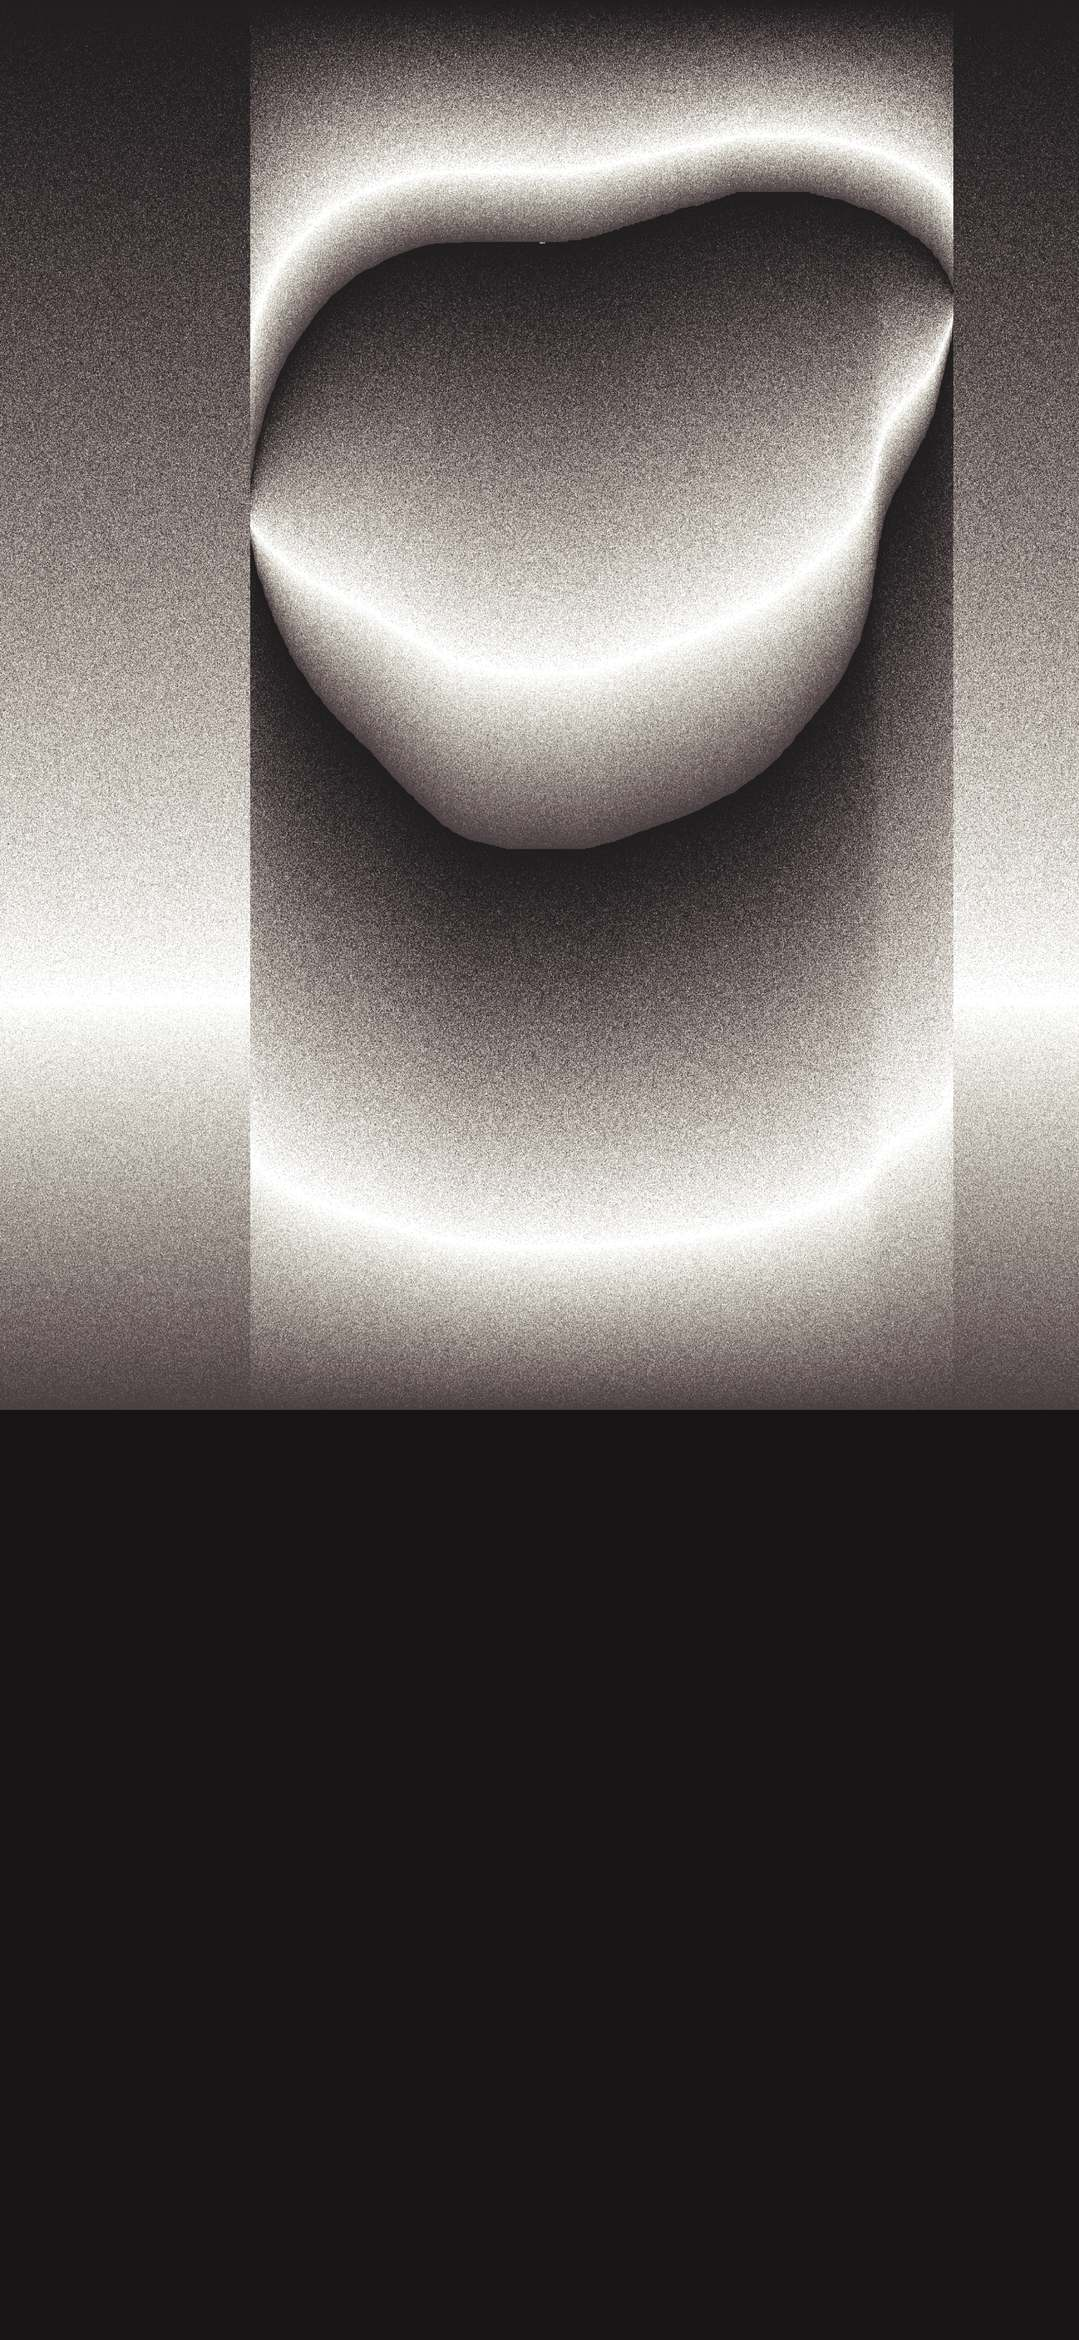
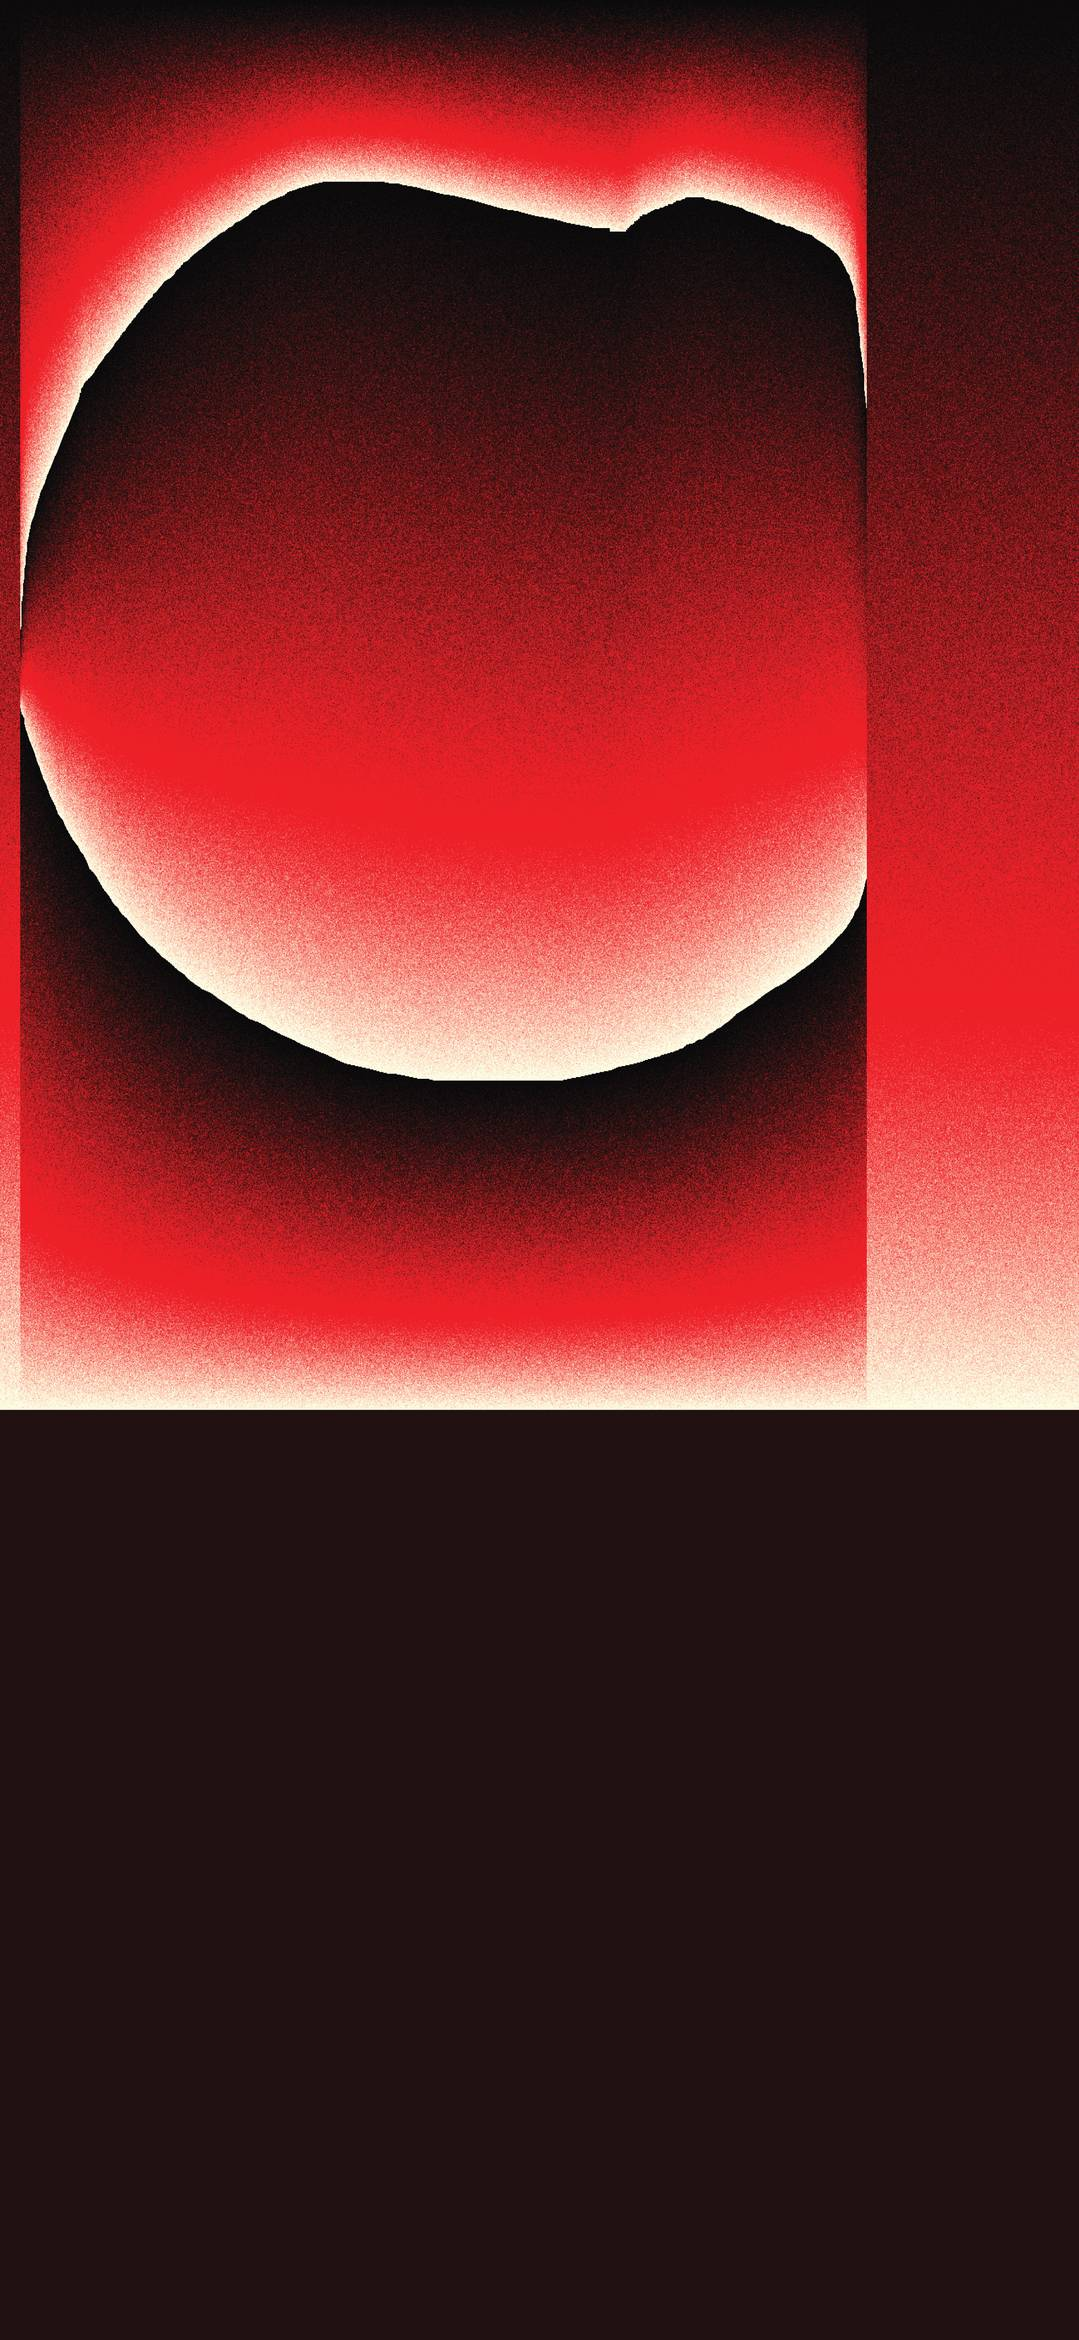
feat: HEROを赤バージョンに変更（for website-01.jpg） + opacity 0.32→0.75
- 背景画像: シルバー(03) → 赤(01) に切替（フライヤーArtboard 7と整合・Alaya for colored.png 本来のペアリング）
- 黒overlay弱化: 上端0.30→0.05（赤を主体に）/ 下端0.92→0.90（venue list/statement読みやすさ維持）
- mobile も PHONE-02 → PHONE-01 に切替

理由: ブランド的にinside段階だが、もう少しキャラクターを出す方向（デザイナー判断）

diff --git a/index.html b/index.html
@@ -146,7 +146,7 @@ section {
   background-size: cover;
   background-position: center;
   background-repeat: no-repeat;
-  opacity: 0.32;
+  opacity: 0.75;
   pointer-events: none;
 }
 .hero::after {
@@ -154,7 +154,7 @@ section {
   position: absolute;
   inset: 0;
   z-index: 0;
-  background: linear-gradient(180deg, rgba(22,22,22,0.30) 0%, rgba(22,22,22,0.60) 60%, rgba(22,22,22,0.92) 100%);
+  background: linear-gradient(180deg, rgba(22,22,22,0.05) 0%, rgba(22,22,22,0.40) 60%, rgba(22,22,22,0.90) 100%);
   pointer-events: none;
 }
 .hero > * { position: relative; z-index: 2; }
